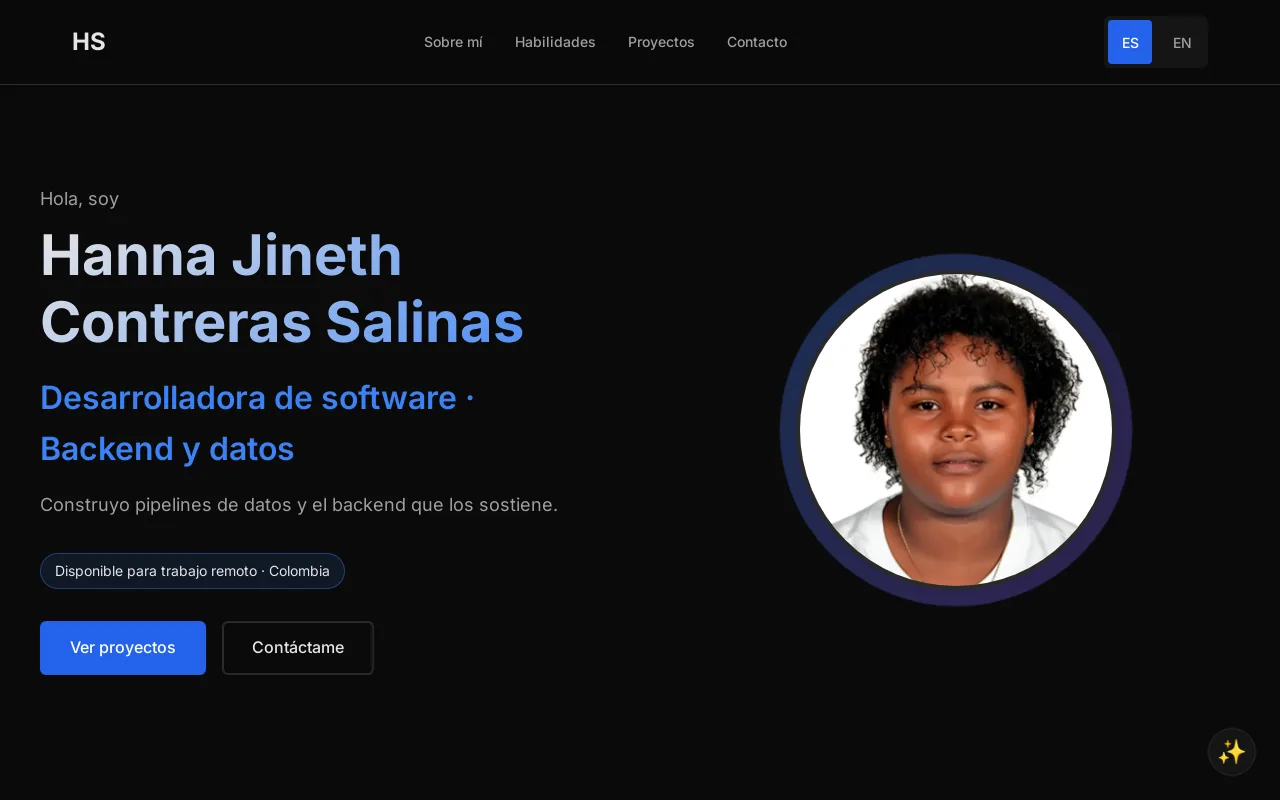
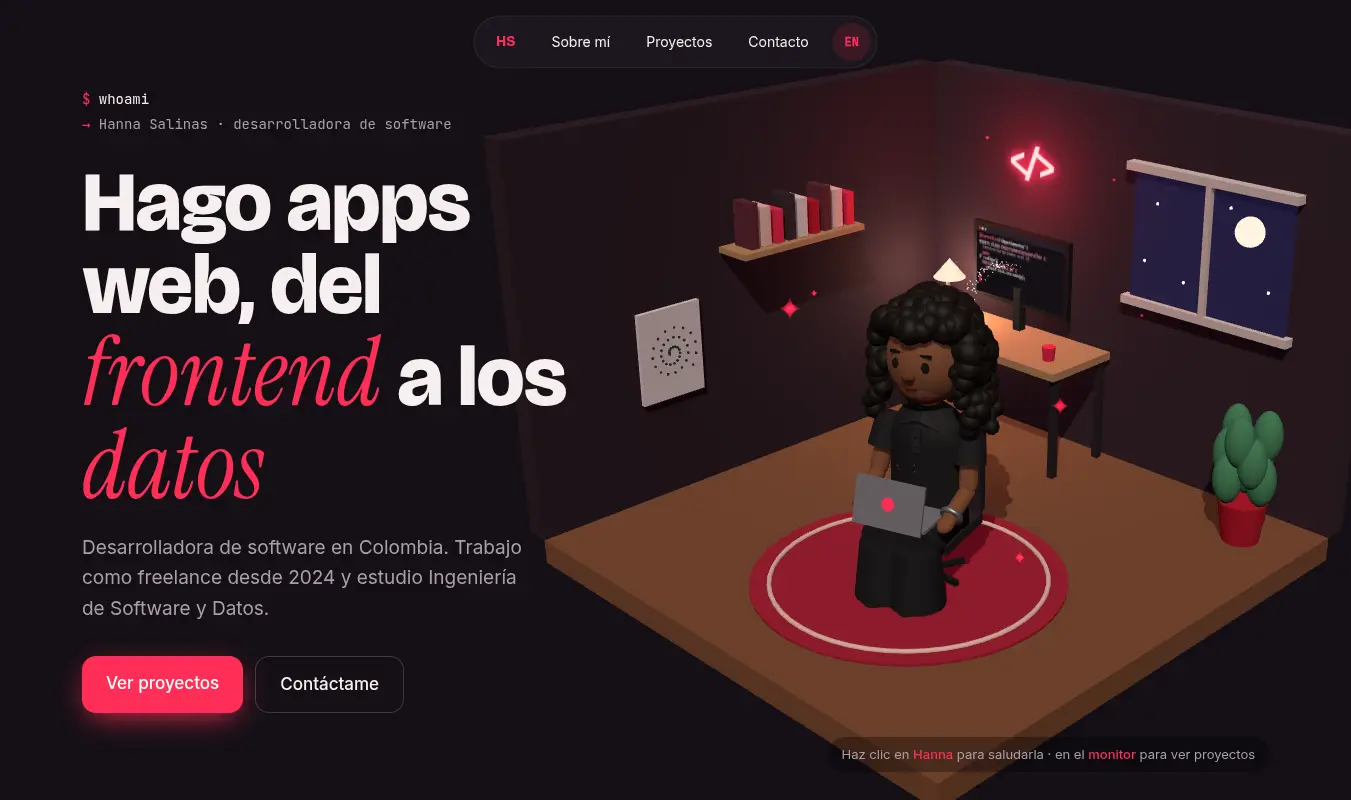
docs: actualizar el README y las capturas con el nuevo diseño

diff --git a/README.md b/README.md
@@ -1,53 +1,48 @@
 # Portafolio · Hanna Salinas
 
-Sitio personal de Hanna Salinas, desarrolladora de software enfocada en backend y datos. Reúne sus proyectos destacados, habilidades, experiencia y CV, en español e inglés.
+Sitio personal de Hanna Salinas, desarrolladora de software. Hace apps web del frontend a los datos y su meta es ser full-stack. Reúne sus proyectos, experiencia y CV, en español e inglés.
 
 **[hannasalinas.github.io](https://hannasalinas.github.io/)**
 
-![Inicio del portafolio en escritorio: nombre, título, disponibilidad remota y foto](docs/capturas/escritorio.webp)
+![Portada en escritorio: un cuarto 3D donde Hanna programa en su portátil](docs/capturas/escritorio.webp)
 
 ## Contenido
 
-- **Proyectos** con el problema que resuelven, el rol de Hanna, el stack y los enlaces al repositorio y a la demo o captura: Terrall, Wanderbricks Lakehouse, TalentCorp HR Data Warehouse, sistema académico en MongoDB, LocalRent y análisis multivariado.
-- **Habilidades** agrupadas por lenguajes, datos y herramientas, más lo que está aprendiendo.
-- **Experiencia** freelance y formación.
-- **CV** descargable en PDF.
+- **Portada 3D** hecha con Three.js: un cuarto con escritorio, monitor que escribe código, letrero de neón y destellos rojos. El personaje está modelado a partir de una foto real; saluda al entrar y al hacer clic sobre él.
+- **Sobre mí** con experiencia, estudios y herramientas.
+- **Proyectos**: Terrall, Wanderbricks Lakehouse, TalentCorp HR Data Warehouse y análisis multivariado, más el sistema académico en MongoDB, LocalRent y la API de Terrall.
+- **Contacto** y CV descargable en PDF.
 
-![Sección de proyectos con filtros y tarjetas](docs/capturas/proyectos.webp)
+![Sección de proyectos](docs/capturas/proyectos.webp)
 
-<p>
-  <img src="docs/capturas/movil.webp" alt="Vista móvil a 390 px de ancho" width="260">
-  <img src="docs/capturas/movil-menu.webp" alt="Menú desplegable en móvil" width="260">
-</p>
+<img src="docs/capturas/movil.webp" alt="Vista móvil a 375 px de ancho" width="260">
 
 ## Características
 
-- HTML, CSS y JavaScript sin frameworks ni paso de compilación.
-- Bilingüe (ES/EN) con archivos de traducción en `lang/`; recuerda el idioma elegido.
-- Diseño adaptable con menú desplegable en móvil y objetivos táctiles de al menos 44 px.
-- Accesibilidad: enlace para saltar al contenido, etiquetas accesibles traducidas y contraste AA.
-- Favicon y etiquetas Open Graph para la vista previa al compartir en LinkedIn o WhatsApp.
-- Imágenes en WebP (la foto pesa 24 KB).
-
-Resultado de Lighthouse en local: rendimiento 90 (móvil) y 96 (escritorio); accesibilidad, buenas prácticas y SEO en 100.
+- HTML, CSS y JavaScript sin frameworks ni paso de compilación; Three.js se carga desde un CDN.
+- Personaje 3D construido solo con figuras básicas (`js/personaje.js`): respira, parpadea, sigue el cursor con la mirada y saluda.
+- Bilingüe (ES/EN): se elige según el idioma del navegador y recuerda la elección.
+- Si el navegador no puede mostrar 3D, la portada muestra una imagen del cuarto.
+- Respeta la preferencia de reducir movimiento del sistema.
+- Etiquetas Open Graph para la vista previa al compartir en LinkedIn o WhatsApp.
 
 ## Estructura
 
 ```
 ├── index.html
 ├── styles.css
-├── script.js            # Idioma, menú móvil, filtros de proyectos y modal
-├── lang/
-│   ├── es.json
-│   └── en.json
-├── assets/images/       # Foto, miniaturas de proyectos, imagen Open Graph y CV
+├── js/
+│   ├── main.js          # Idioma, destellos del cursor, terminal y animaciones al bajar
+│   ├── escena.js        # Cuarto 3D, luces, partículas e interacción
+│   └── personaje.js     # Personaje 3D y sus animaciones
+├── assets/images/       # Foto, miniaturas de proyectos, imagen de respaldo, Open Graph y CV
 ├── favicon.svg
 └── docs/capturas/       # Capturas usadas en este README
 ```
 
 ## Ejecutar en local
 
-Las traducciones se cargan con `fetch`, así que hace falta un servidor (abrir `index.html` directamente no funciona):
+Los módulos de JavaScript necesitan un servidor (abrir `index.html` con doble clic no carga el 3D):
 
 ```bash
 git clone https://github.com/HannaSalinas/HannaSalinas.github.io.git
